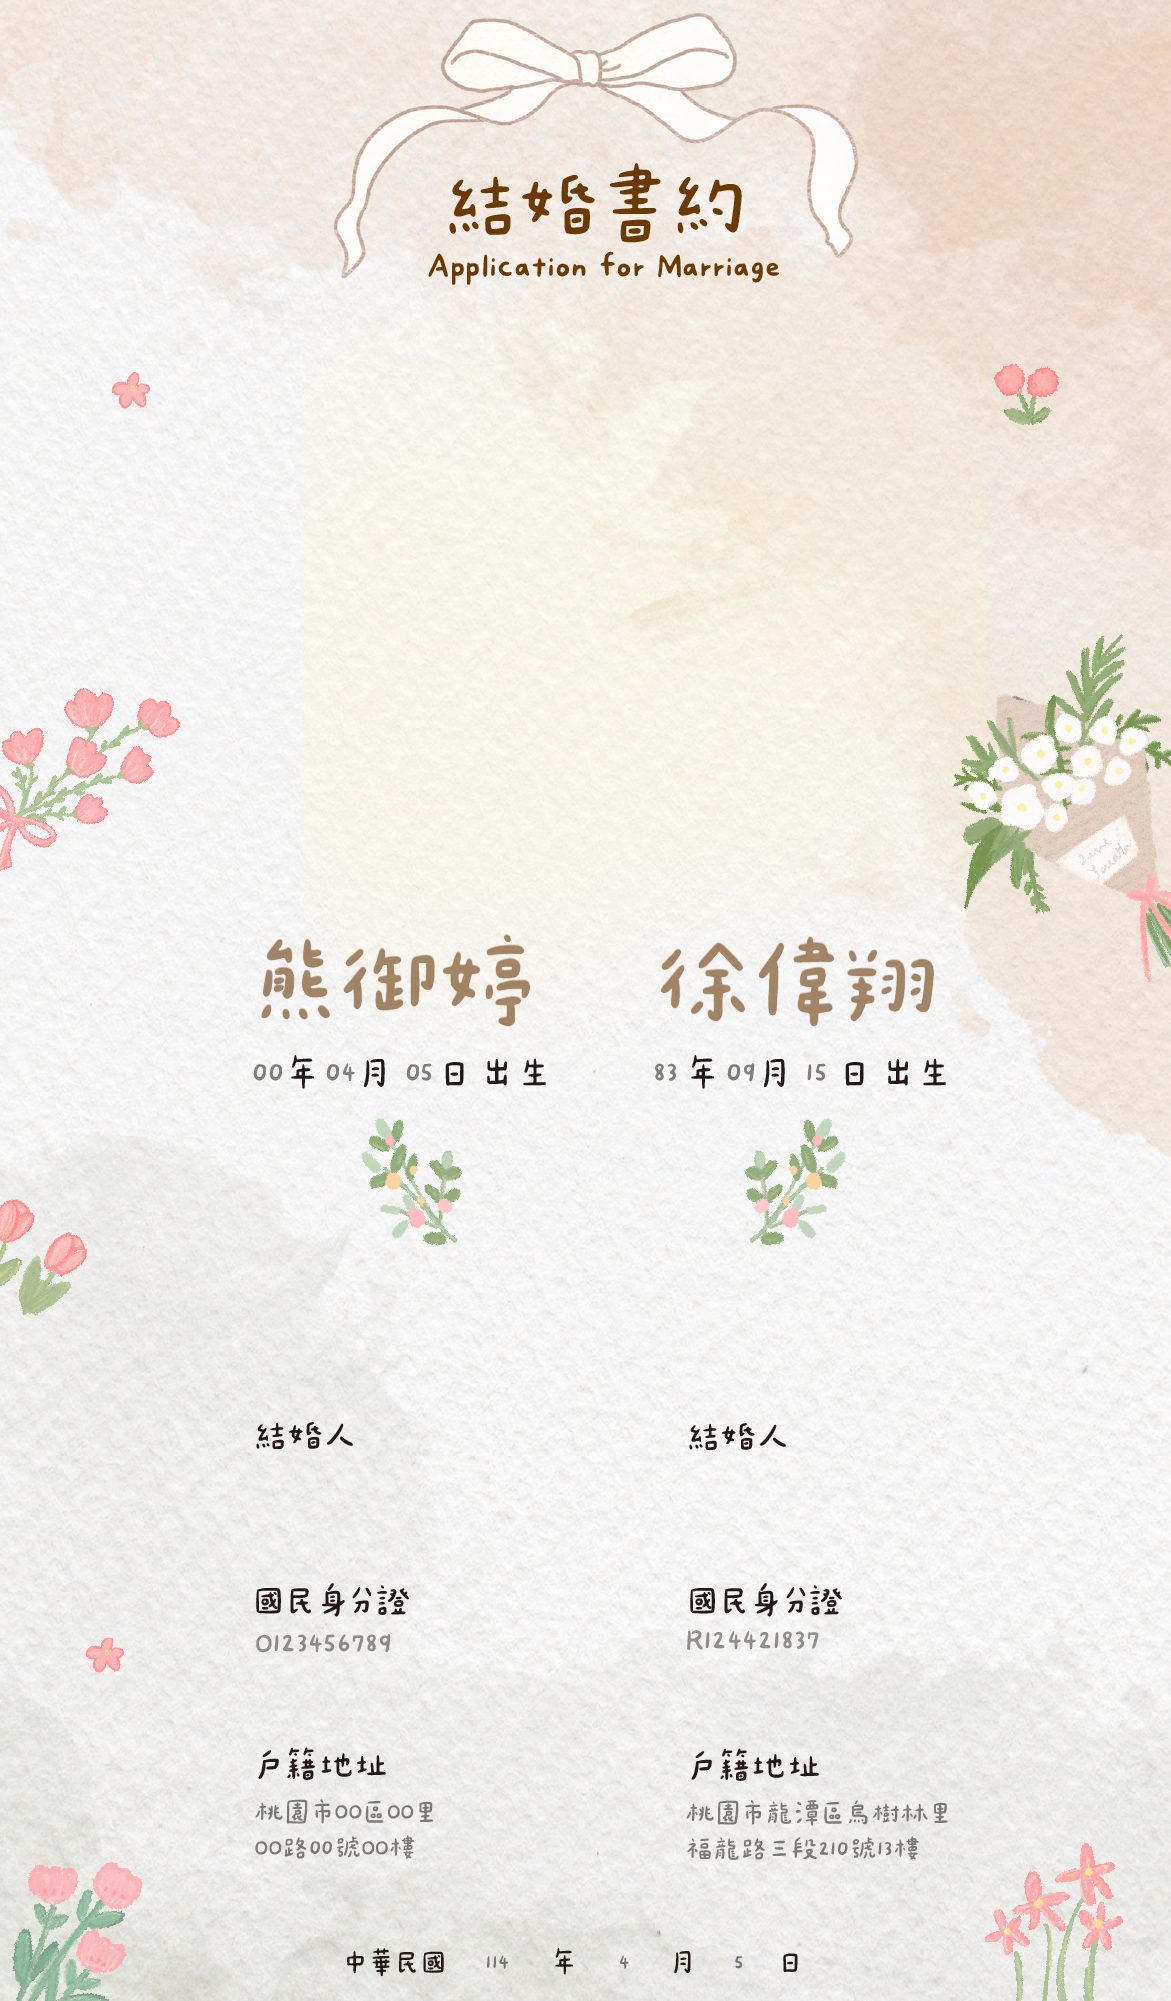
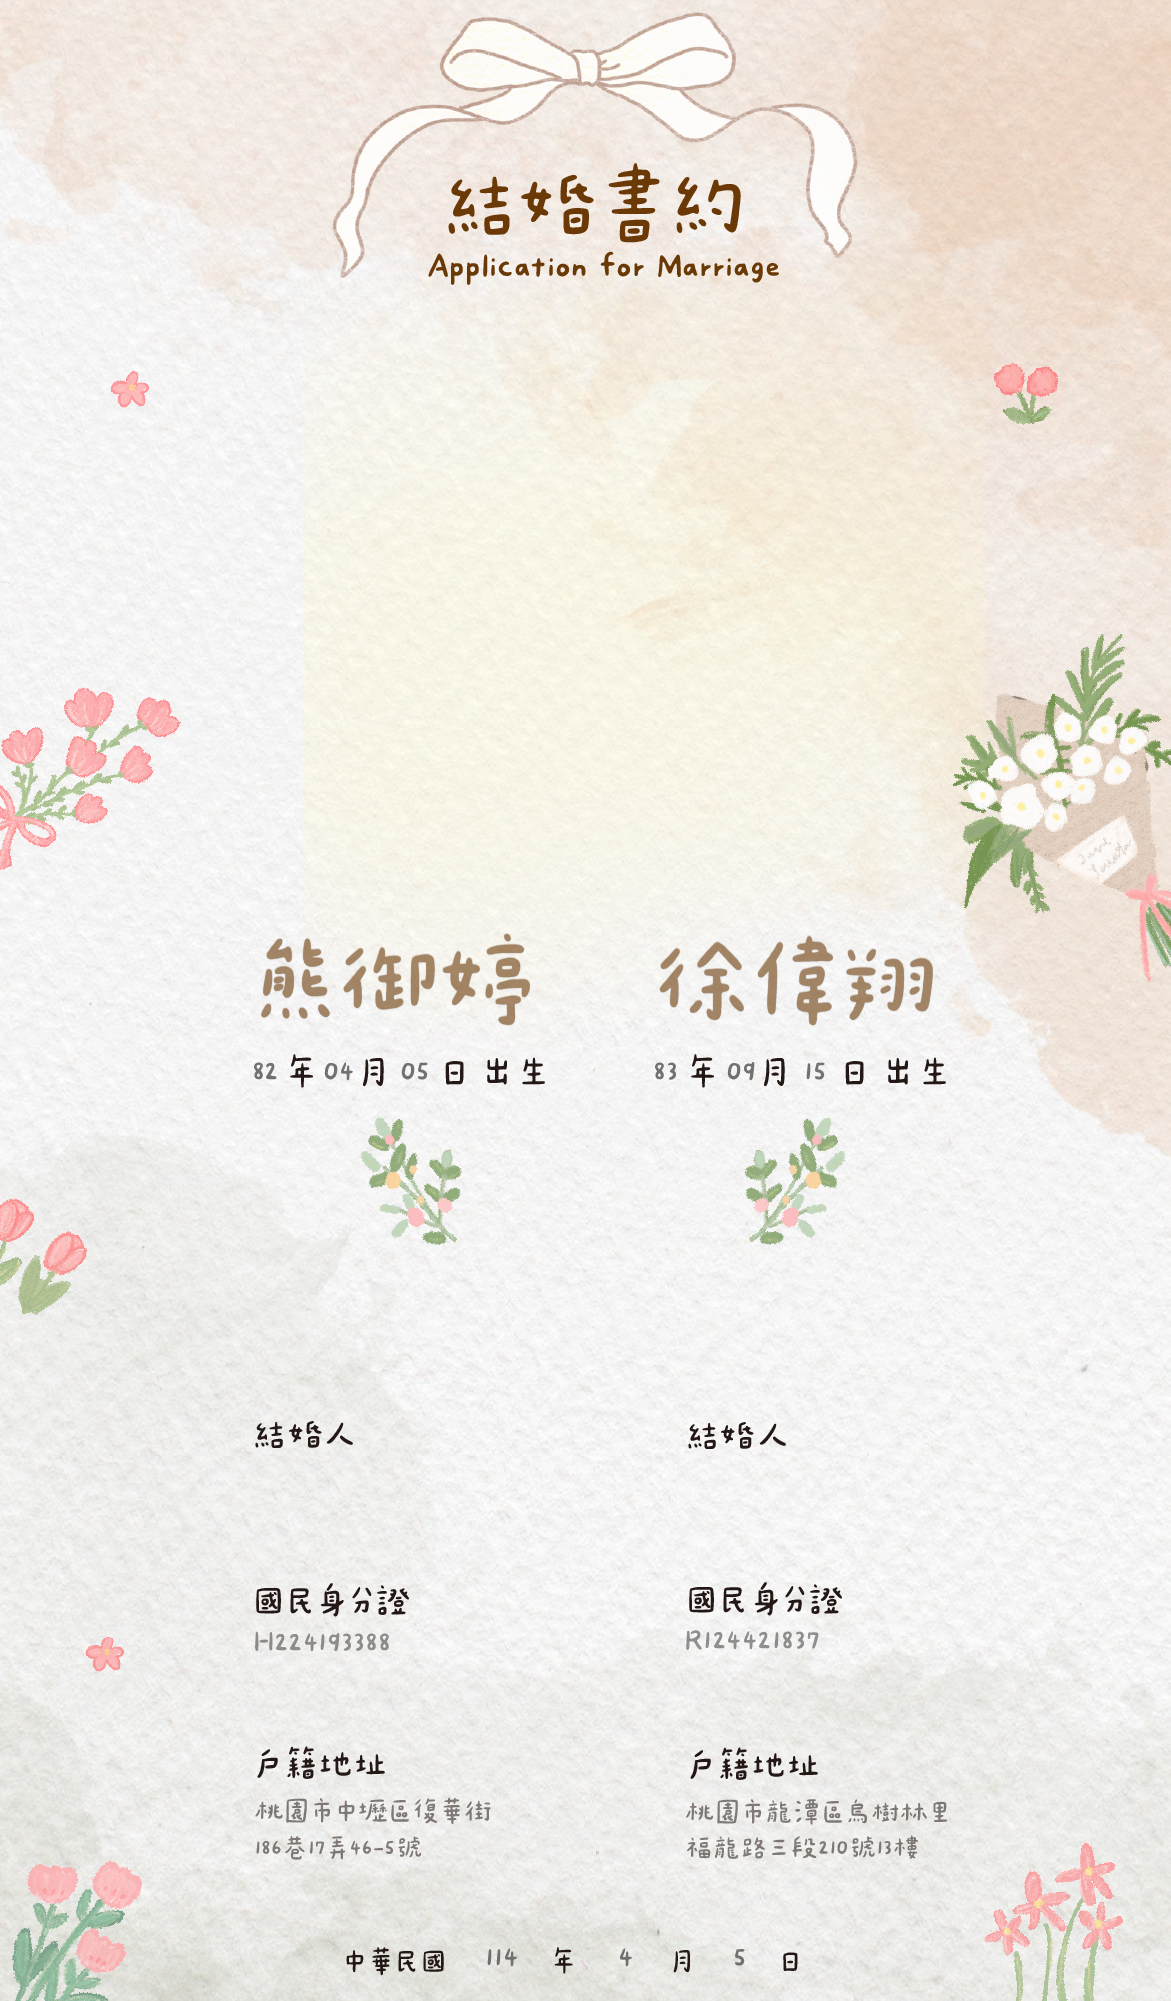
更新女生住家地址

diff --git a/index.html b/index.html
@@ -103,7 +103,7 @@
         }
       }
       .proposal-page {
-        background-image: url("./img/proposal_0205.png");
+        background-image: url("./img/proposal.png");
         background-size: cover;
         background-position: top;
         background-repeat: no-repeat;
@@ -233,7 +233,7 @@
       nextBtn.addEventListener("click", () => {
         prePage.style.display = "none";
         proposalPage.style.display = "block";
-        progress.hidden=true
+        progress.hidden = true;
       });
 
       ido.addEventListener("click", () => {
